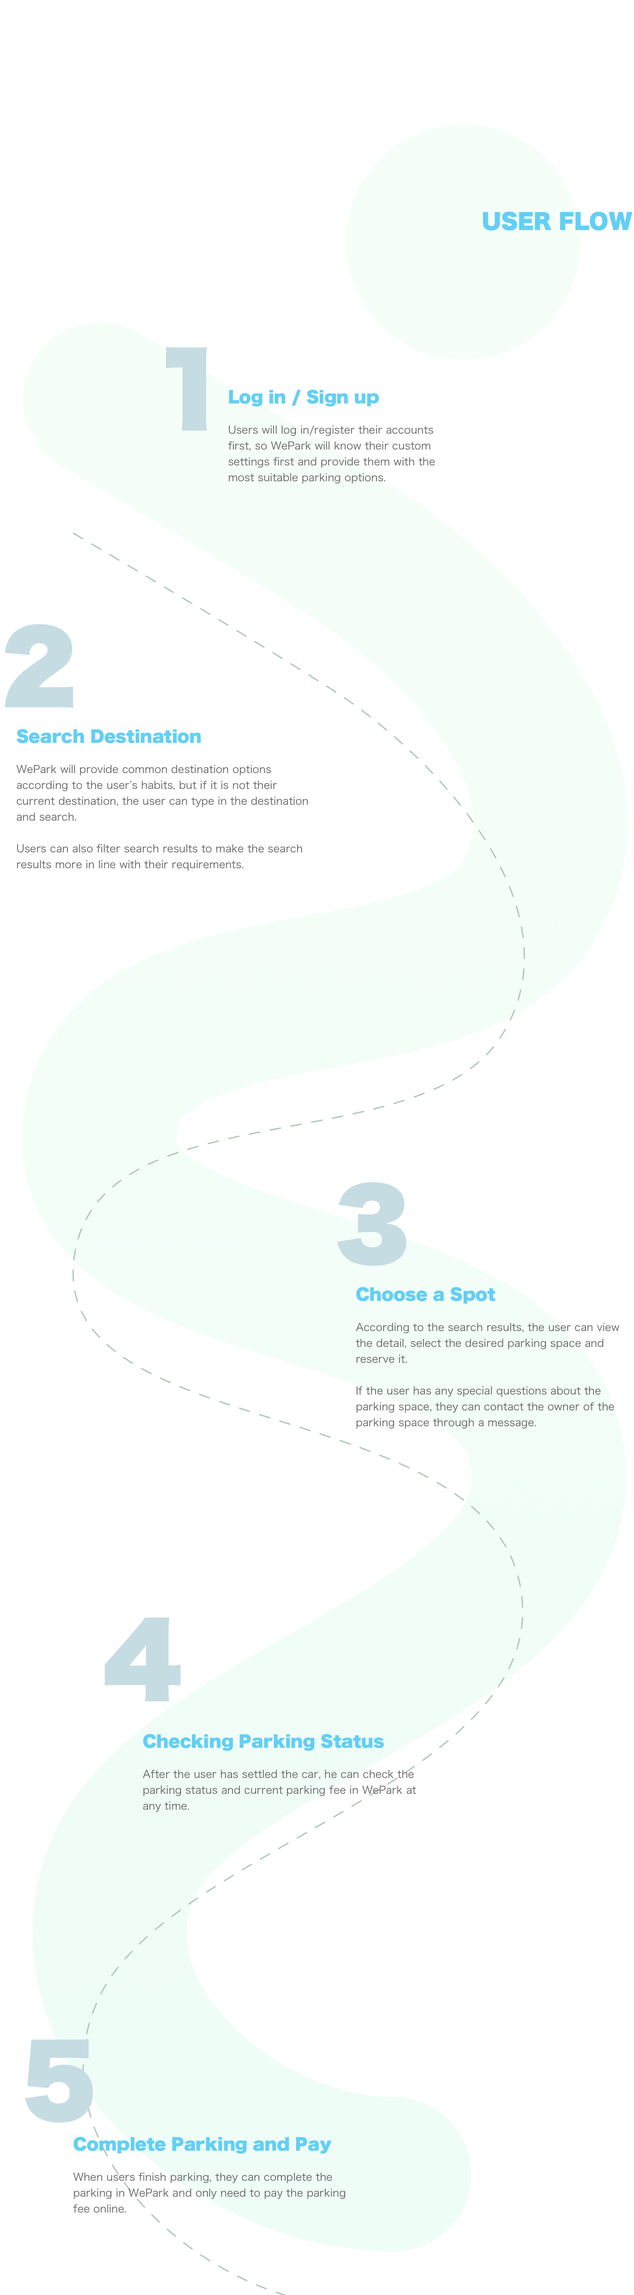
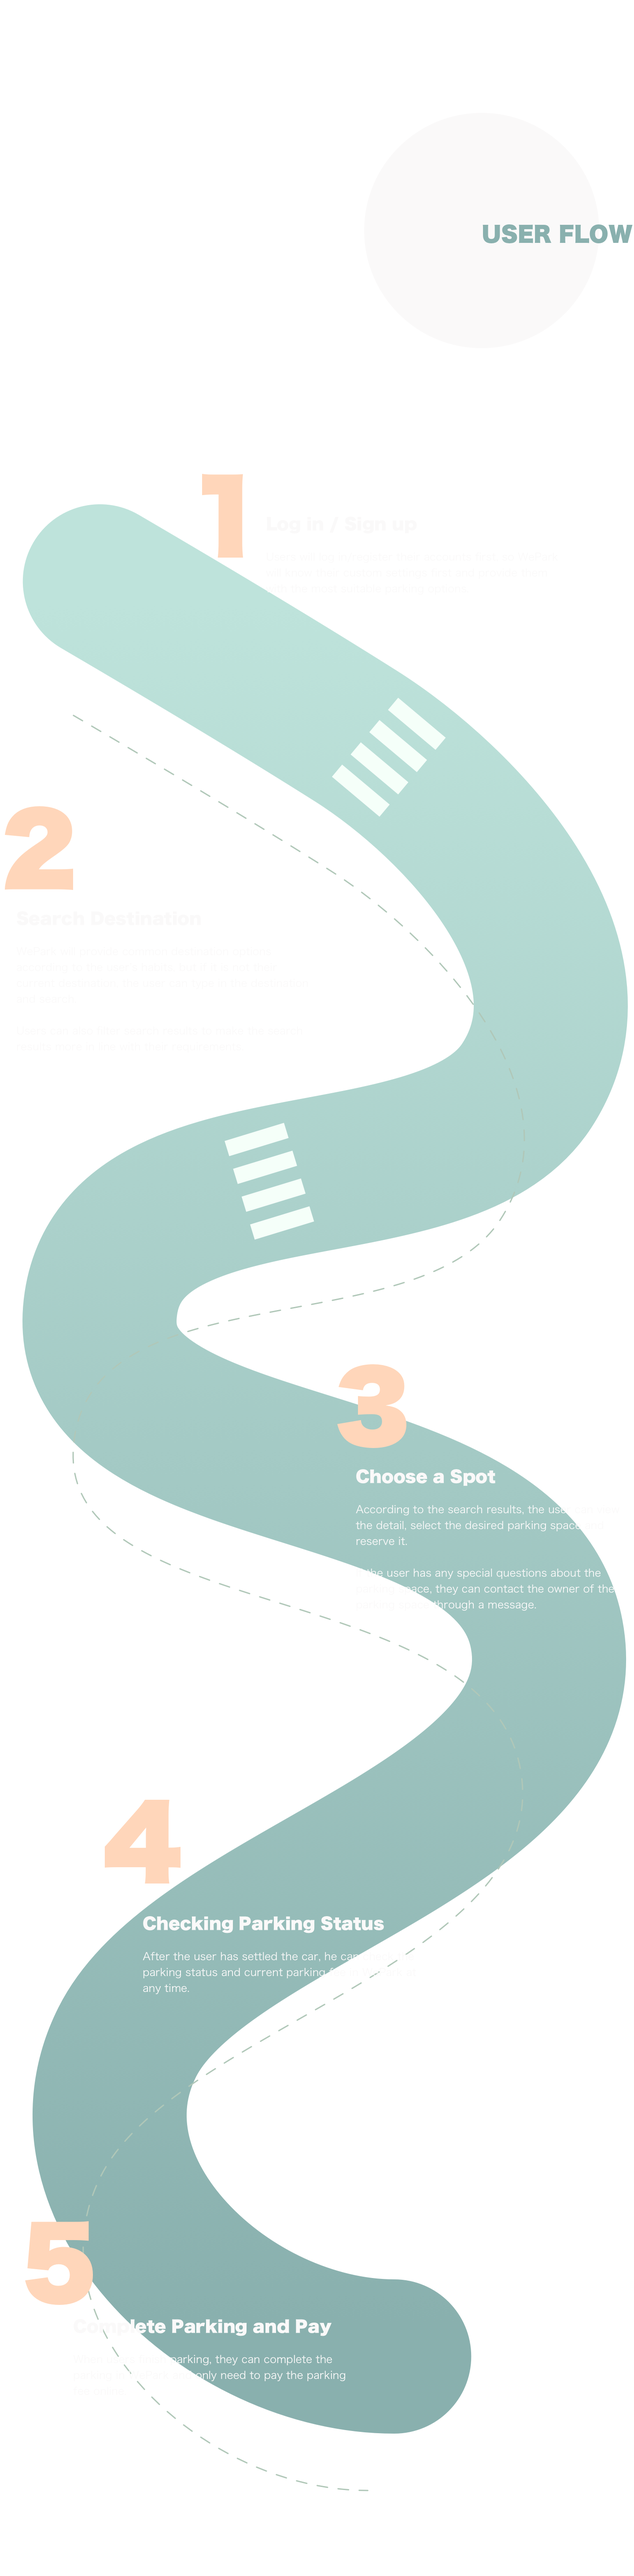
update

diff --git a/wepark.html b/wepark.html
@@ -27,9 +27,35 @@
 <div class='container'>
 <br/>
 <br/>
-<image src="img/wepark/overview.gif"></image>
-<image src="img/wepark/process.png"></image>
+<image class="float" src="img/wepark/space.png"></image>
 <image src="img/wepark/highlights.png"></image>
+<image class="float" src="img/wepark/space.png"></image>
+</div>
+<section class="section--green" id="green">
+  <div class="container">
+<image class="base" src="img/wepark/feature.png"></image>
+    <image class="float" src="img/wepark/space.png"></image>
+    <image class="float" src="img/wepark/space.png"></image>
+    <image class="float" src="img/wepark/space.png"></image>
+    <image class="float" src="img/wepark/space.png"></image>
+    <image class="float" src="img/wepark/space.png"></image>
+    <image class="float" src="img/wepark/uf-login.gif"></image>
+    <image class="float" src="img/wepark/search-2.gif"></image>
+    <image class="float" src="img/wepark/search.gif"></image>
+    <image class="float" src="img/wepark/choosespot.gif"></image>
+    <image class="float" src="img/wepark/space.png"></image>
+    <image class="float" src="img/wepark/count.gif"></image>
+    <image class="float" src="img/wepark/space.png"></image>
+    <image class="float" src="img/wepark/space.png"></image>
+    <image class="float" src="img/wepark/pay.gif"></image>
+<image src="img/wepark/space.png"></image>
+<image src="img/wepark/space.png"></image>
+</div>
+</section>
+<div class="container">
+<image src="img/wepark/space.png"></image>
+<image src="img/wepark/whywepark.png"></image>
+<image src="img/wepark/space.png"></image>
 <a href="#ref1"></a><a href="#ref2"></a><image src="img/wepark/problems.png"></image>
 <image src="img/wepark/userstudy.png"></image>
 <image class="base" src="img/wepark/insight.png"></image>
@@ -51,15 +77,7 @@
 </section>
 <section>
   <div class="container">
-    <image class="base" src="img/wepark/feature.png"></image>
-    <image class="float" src="img/wepark/space.png"></image>
-    <image class="float" src="img/wepark/space.png"></image>
-    <image class="float" src="img/wepark/space.png"></image>
-    <image class="float" src="img/wepark/uf-login.gif"></image>
-    <image class="float" src="img/wepark/search-2.gif"></image>
-    <image class="top" src="img/wepark/search.gif"></image>
 
-<image src="img/wepark/space.png"></image>
 
 <br/><br/><br/><br/>
 <b>References</b><br>

diff --git a/css/main.css b/css/main.css
@@ -83,15 +83,6 @@ img{
   z-index: 2;
 }
 
-
-.base1{
-  position: absolute;
-  z-index: 1;
-}
-float1{
-  position: relative;
-  z-index: 2;
-}
 .top{
   position: relative;
   z-index: 3;
@@ -286,6 +277,10 @@ button.light {
 
 .section--pink{
   background: linear-gradient(#DDBEA9, #CB997E);
+}
+
+.section--green{
+  background: linear-gradient(#72798C, #555B6E);
 }
 
 
